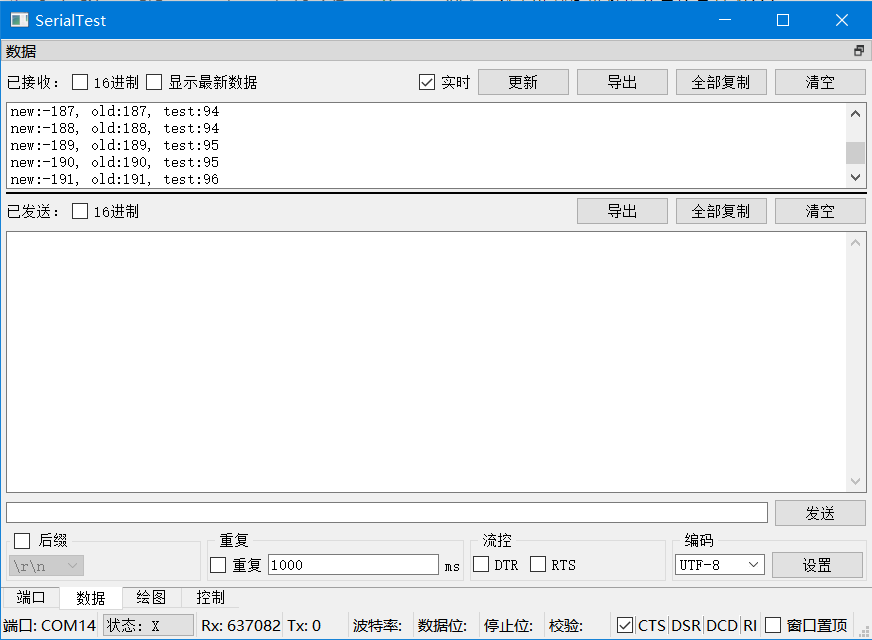
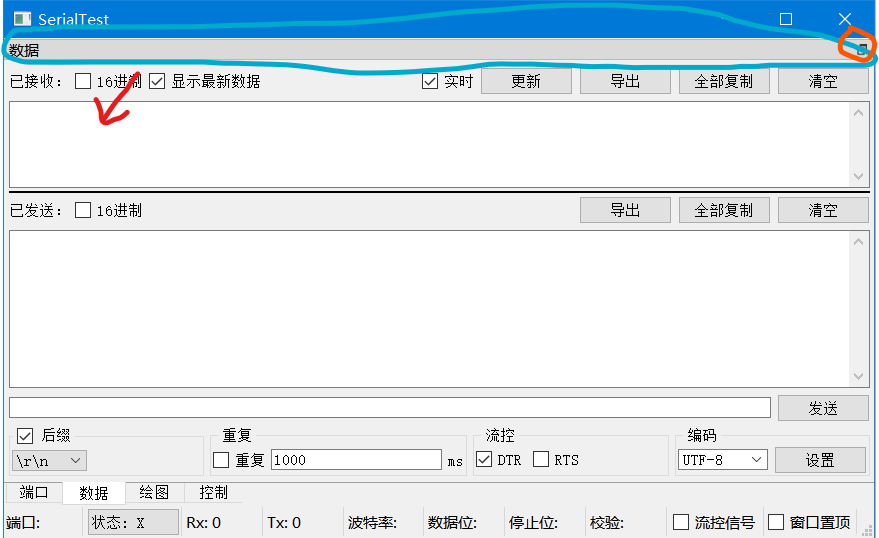
Update README and tutorials

Changed region(s): [[0.0, 0.0, 1.0, 1.0]]

diff --git a/doc/tutorials/data/data_zh_CN.md b/doc/tutorials/data/data_zh_CN.md
@@ -1,9 +1,16 @@
 # 数据收发
+## 子窗口介绍
+在PC端，此程序的所有界面均可从主窗口中拖离，成为单个子窗口，便于使用  
+![1](1_zh_CN.png)  
+需要分离子窗口时，可 **点击页面右上角的分离按钮(橙色标识)** ，或者 **单击拖拽页面上方的标题(青色区域)** 使其成为子窗口  
+![2](2_zh_CN.png)  
+需要合并子窗口时， **双击子窗口上方标题** 即可合并  
 
-## 界面介绍
+## “数据”界面介绍
+最基本的数据收发功能位于“数据”界面  
 绿色为接收区，红色为发送区，蓝色为设置区  
 接收区和发送区之间有一根黑色分割线，可用于分配接收区/发送区的显示尺寸  
-![1](1_zh_CN.png)  
+![3](3_zh_CN.png)  
 ## 接收区
 
 ### 16进制
@@ -37,16 +44,18 @@
 在待发送框中输入数据后点击“发送”按钮或按回车即可发送数据  
 若需要在每次发送时添加\n, \r\n或其它后缀，可在设置区勾选后缀，并选择/输入后缀  
 ## 分割线
-拖动分割线可以改变接收区/发送区(已发送框)的显示尺寸  
-![2](2_zh_CN.png)  
-将分割线拖动至顶部/底部可以隐藏已接收框/已发送框  
-![3](3_zh_CN.png)  
-双击分割线可将尺寸占比重置为1:1  
+ **拖动分割线** 可以改变接收区/发送区(已发送框)的显示尺寸  
+![4](4_zh_CN.png)  
+将分割线 **拖动至顶部/底部** 可以隐藏已接收框/已发送框  
+![5](5_zh_CN.png)  
+ **双击分割线** 可将尺寸占比重置为1:1，也会将被隐藏的已接收框/已发送框显示出来  
 ## 设置区
 ### 后缀
 当“后缀”被勾选后，每次在数据收发页面发送数据时将会自动带上指定的后缀  
 后缀可以是一个字符串，一段字节数据(用16进制指定)，\n换行符或者\r\n换行符  
 常见串口助手当中的“发送新行”选项相当于加上了\r\n后缀  
+在使用串口屏时可能需要发送特定的16进制后缀(如淘晶驰的\xFF\xFF\xFF或者迪文的CC 33 C3 3C等)，此时可将后缀类型设为16进制，然后输入对应的后缀(FF FF FF或CC 33 C3 3C等)  
+（对于此类有固定前后缀的信息，可前往“控制”页面中定义格式并快速发送）  
 ### 重复(定时发送)
 勾选“重复”后，程序将每隔指定的一段时间发送数据(相当于定时点击“发送”按钮)  
 ### 流控
@@ -55,9 +64,10 @@
 该设置对Android端蓝牙串口无效  
 当串口流控为硬件流控时，DTR将由硬件控制，无法在程序中被手动控制  
 经测试，使用该串口助手和树莓派Pico中出厂自带的MicroPython通信时，需要勾选DTR  
+勾选窗口最下方的“流控信号”复选框之后将会实时显示串口设备接收到的流控信号(CTS, DSR, DCD, RI)  
 ### 编码
 可以选择或输入编码名，单击“设置”按钮后如果没有报错，则说明编码设置成功  
-接收字符时，如果一个多字节字符被分成多次次接收，程序也能自动拼合  
+接收字符时，如果一个多字节字符被分成多次接收，程序也能自动拼合  
 GB18030编码涵盖了GB2312和GBK  
 [支持的编码](https://doc.qt.io/qt-5/qtextcodec.html#details): 
 

diff --git a/doc/tutorials/plot/plot_zh_CN.md b/doc/tutorials/plot/plot_zh_CN.md
@@ -1,11 +1,16 @@
 # 实时绘图
+实时绘图功能位于“绘图”界面  
 勾选“启动”后程序将会尝试实时绘制接收到的数据  
 如果配置无误，适当缩小绘图区之后即可看到图形曲线  
 
+## 示例程序
+项目的demo/文件夹下有若干MCU的工程文件，其中以plot_开头的是和实时绘图相关的工程，当中提供了两种数值转文本的方式(printf()或myitoa())，可参照这些项目设计MCU的代码  
+如果有更为复杂的文本/数值互转需求，可参考[此文件](https://github.com/wh201906/CubeMX_Lib/blob/main/Module/UTIL/util.c)中的实现  
+
 ## 移动和缩放  
-在绘图区内部滑动鼠标滚轮可以缩放整个画面，左键单击并拖拽可以移动整个画面  
-在坐标轴上滑动鼠标滚轮可以单方向缩放，左键单击并拖拽可以单方向移动  
-在Android端，手指捏合/放大和鼠标滚轮操作等效，单指拖拽和鼠标拖拽操作等效  
+在绘图区内部 **滑动鼠标滚轮** 可以缩放整个画面， **左键单击并拖拽** 可以移动整个画面  
+在坐标轴上 **滑动鼠标滚轮** 可以单方向缩放， **左键单击并拖拽** 可以单方向移动  
+在Android端的 **手指捏合/放大** 和PC端的 **滑动鼠标滚轮** 等效， **单指拖拽** 和 **鼠标拖拽** 等效  
 单击“适应X轴”/“适应Y轴”按钮可让已绘制的图形充满整个X轴/Y轴  
 
 ## 启动
@@ -105,15 +110,15 @@ x=6mm,y=-4.4db,z=4
 则程序在绘制完前三个点后会清空绘图区，坐标轴计数归零，然后绘制之后的点  
 
 ## 图例
-勾选后在右上角图例，用于标识每一条绘图曲线的名字和颜色  
+勾选后在右上角显示图例，用于标识每一条绘图曲线的名字和颜色  
 ![5](5_zh_CN.png)  
 通过单击来选择曲线/图例时对应的图例/曲线会亮起  
-PC端右键单击/Android端长按可以更改曲线名字  
-双击图例可以隐藏/显示某条曲线，被隐藏的曲线名字前会带有*号  
+PC端 **右键单击** /Android端 **长按** 可以更改曲线名字  
+ **双击** 图例可以隐藏/显示某条曲线，被隐藏的曲线名字前会带有*号  
 
 ## 光标
 勾选后在左上角显示被选中曲线的名称，以及在鼠标光标附近对应点的X值和Y值  
 Android端可通过点击某一处查看对应点的X值和Y值  
 
 ## 显示点
-在“绘图”页面中勾选“高级”，勾选“显示点”，即可在绘图区线上显示具体的数据点  
+在“绘图”页面中勾选“高级”，勾选“显示点”，即可在绘图曲线上显示具体的数据点  

diff --git a/README.md b/README.md
@@ -25,6 +25,7 @@ A cross-platform serial port test tool.
 ![port_android](doc/previews/port_android.jpg)  
 ![data](doc/previews/data.png)  
 ![plot](doc/previews/plot.png)  
+![ctrl](doc/previews/ctrl.png)  
 
 [more previews](doc/previews/previews.md)  
 

diff --git a/doc/README/README_zh_CN.md b/doc/README/README_zh_CN.md
@@ -25,6 +25,7 @@
 ![port_android](../previews/port_android_zh_CN.jpg)  
 ![data](../previews/data_zh_CN.png)  
 ![plot](../previews/plot_zh_CN.png)  
+![ctrl](../previews/ctrl_zh_CN.png)  
 
 [更多预览](../previews/previews_zh_CN.md)  
 
